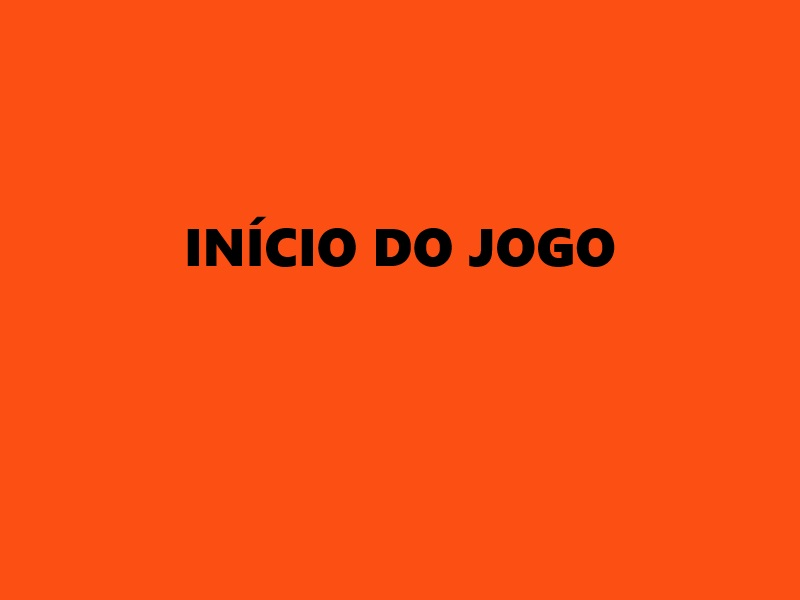
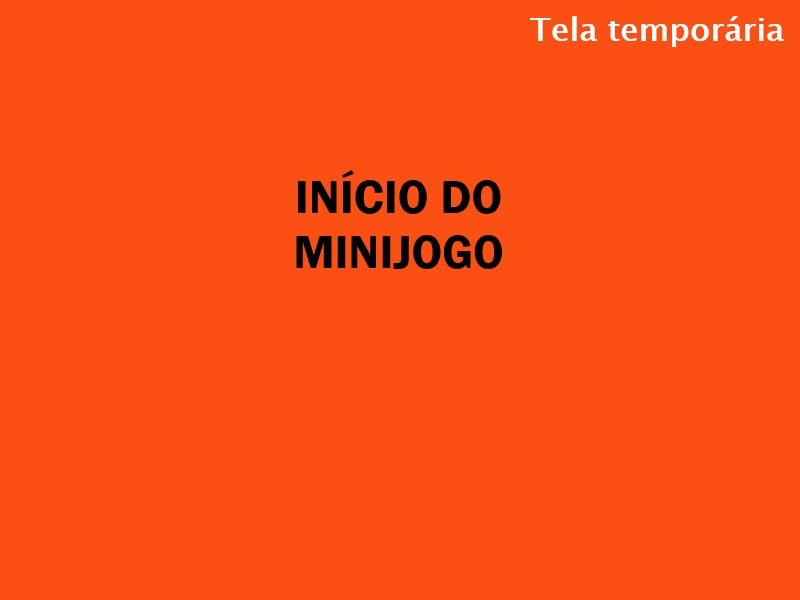
Sinalização de arquivos temporários e adição das intstruções do jogo
Adição da frase "Tela temporária" para algumas das cenas do jogo, além da adição das instruções de como prosseguir na versão atual do jogo para o arquivo readme.md, localizado na pasta src. Essas mudanças permitem com que o usuário que esteja interagindo com o entregável seja capaz de distinguir aquilo que será mudado futuramente, além de entender como engajar com as mecânicas do jogo.

Changed region(s): [[0.2188, 0.3, 0.7812, 0.45], [0.6562, 0.03, 1.0, 0.09]]

diff --git a/src/hub.js b/src/hub.js
@@ -28,6 +28,7 @@
 
       preload()
       {
+
           //Preload das imagens, incluindo o tilemap/set utilizado e os itens que serão interativos
 
           this.load.image('tiles', 'assets/tilesetInicial.png');

diff --git a/src/menuInicial.js b/src/menuInicial.js
@@ -43,6 +43,6 @@ class menuInicial extends Phaser.Scene
             game.scene.stop('menuInicial');
 
             game.scene.start('hub');
-        }
+        }   
     )}
 }

diff --git a/src/readme.md b/src/readme.md
@@ -1,1 +1,13 @@
-Posicione aqui os arquivos e pastas de código-fonte do game. A cada entrega de sprint, será considerado o último commit dentro do prazo. A partir dali, toda e qualquer alteração será considerada na próxima sprint. Apague este arquivo .md ao final do módulo.
+Instruções de interação do jogo - Primeira entrega:
+
+-> Na tela inicial, aperte com o botão esquerdo do mouse sobre o botão Iniciar para avançar;
+
+-> No próximo ambiente, movimente o personagem (aparência temporária) pelo escritório (layout temporário) utilizando as setinhas presentes no teclado. Para avançar, vá até o computador presente no meio, e aperte a tecla espaço enquanto encostar em sua área de colisão;
+
+-> Na tela de login, aperte com o botão esquerdo do mouse sobre o ícone para avançar;
+
+-> Na tela da área de trabalho, aguarde o email terminar a sua movimentação. Quando o mesmo ficar parado, aperte-o com o botão esquerdo do mouse para prosseguir;
+
+-> Essa tela é a principal representação do conceito do jogo, apresentando uma contextualização básica sobre a história, além do que virá a seguir. Após o início dessa cena, aguarde 3 segundos para poder prosseguir. Após esse período, aperte o botão "Começar tarefa" para prosseguir;
+
+-> Essa tela temporária é a última desenvolvida, representando o início de um minijogo.
